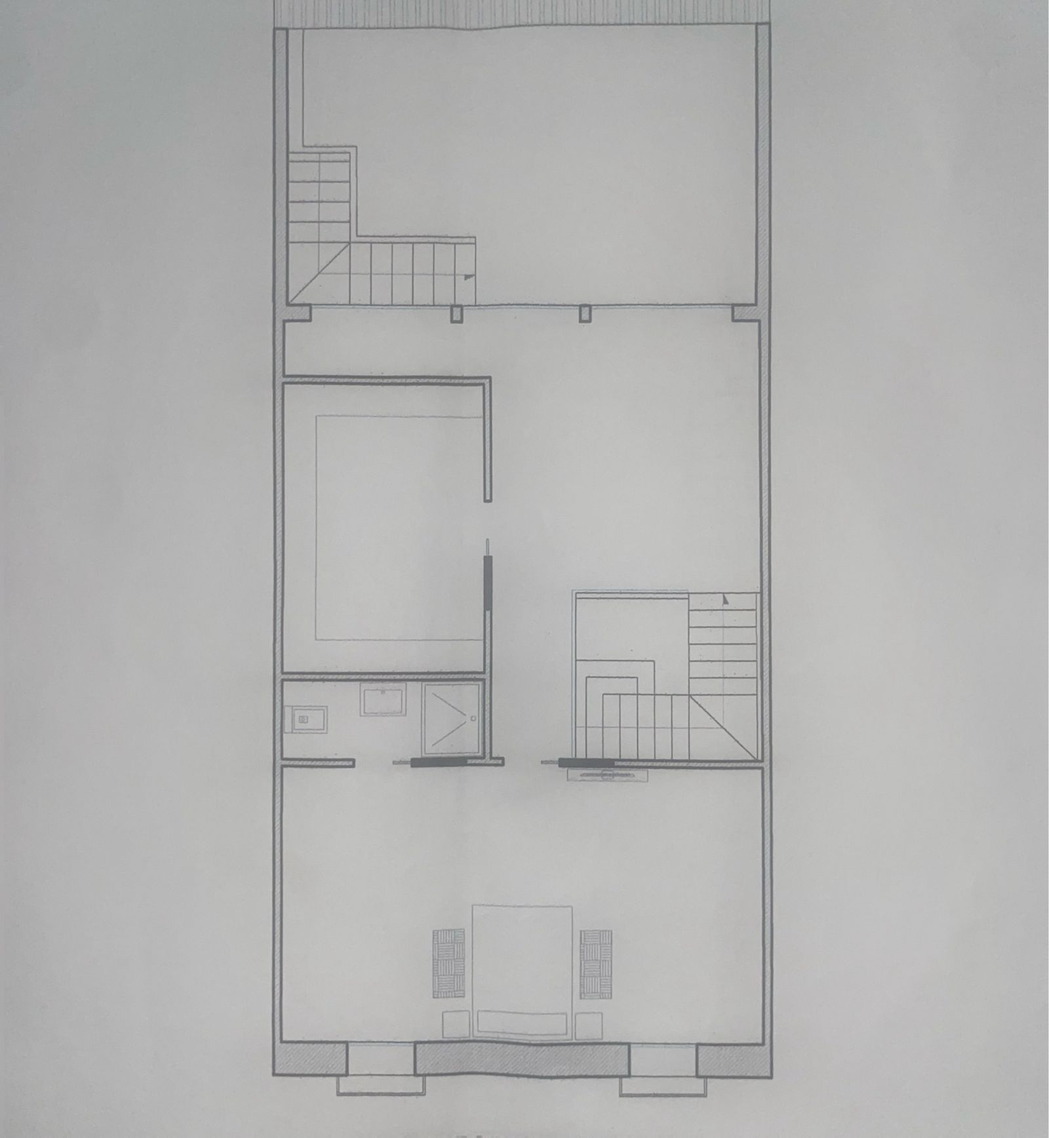
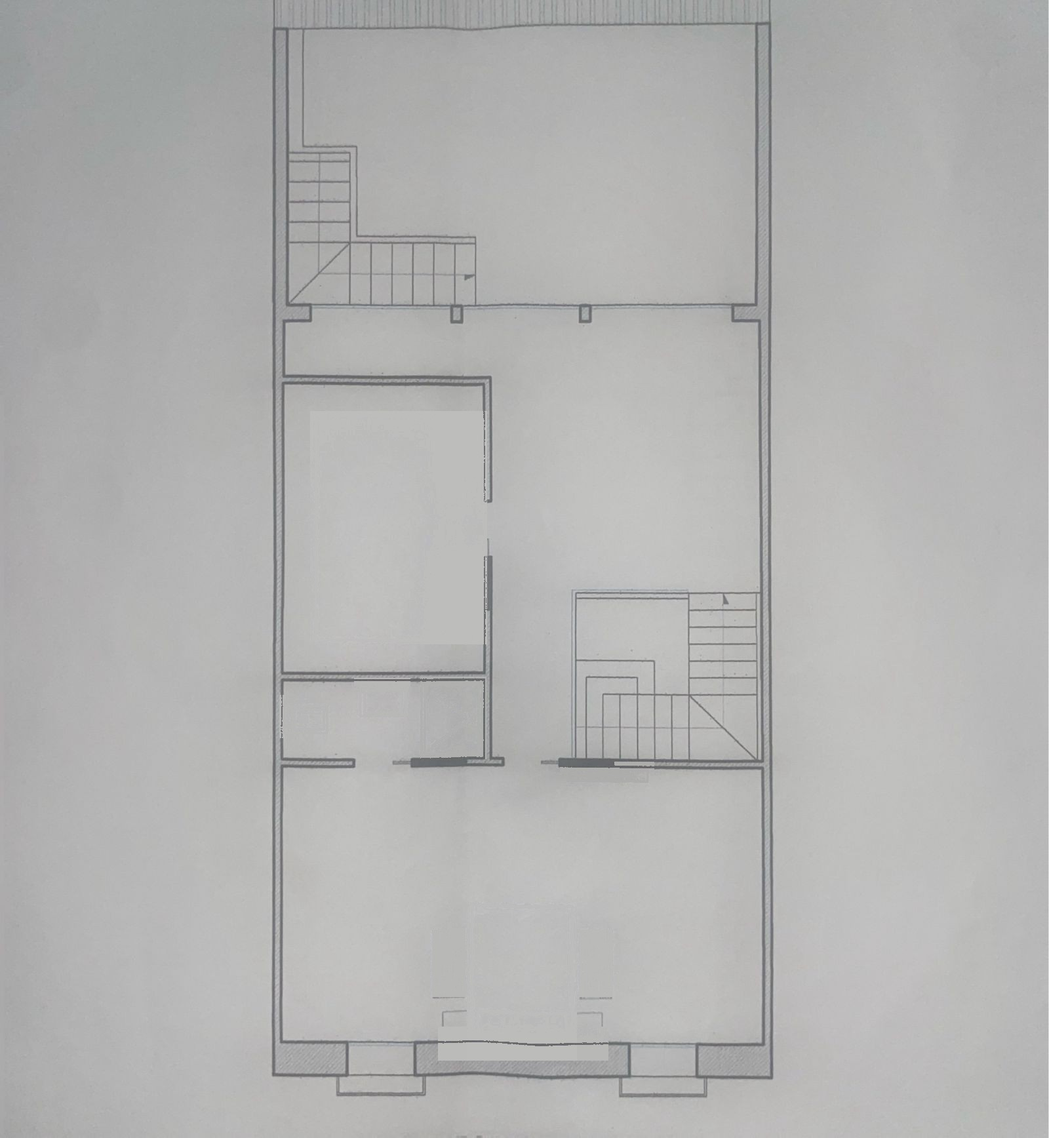
V2.83 — Planos: modo Mobiliario con todos los muebles reconstruidos; menús ajustados

diff --git a/planos/index.html b/planos/index.html
@@ -19,7 +19,7 @@ button{background:var(--s2);border:1px solid var(--bd);border-radius:10px;min-he
 button.pri{background:var(--ac);color:#111;border-color:var(--ac);font-weight:600}
 button.on{border-color:var(--ac);color:var(--ac);background:rgba(255,184,28,.12)}
 input,select,textarea{background:var(--s2);border:1px solid var(--bd);border-radius:10px;padding:8px 10px;min-height:40px;width:100%;-webkit-user-select:text;user-select:text}
-.top{flex:0 0 auto;display:flex;align-items:center;gap:8px;padding:8px 10px;background:var(--s1);border-bottom:1px solid var(--bd)}
+.top{flex:0 0 auto;display:flex;align-items:center;gap:8px;padding:20px 10px 8px;background:var(--s1);border-bottom:1px solid var(--bd)}
 .top .tit{flex:1;min-width:0;text-align:left;background:transparent;border:0;font-weight:700;font-size:1.05rem;white-space:nowrap;overflow:hidden;text-overflow:ellipsis;padding:0 4px}.top a{color:var(--ac);text-decoration:none;font-weight:600;white-space:nowrap}
 #nombre{flex:1;min-width:60px;background:transparent;border:0;font-weight:600;font-size:1.02rem;padding:4px}
 .top button{min-height:36px;padding:0 10px}
@@ -29,7 +29,7 @@ input,select,textarea{background:var(--s2);border:1px solid var(--bd);border-rad
 .chip i{width:14px;height:14px;border-radius:50%;display:inline-block;box-shadow:0 0 0 1px rgba(0,0,0,.35)}
 .lienzo{flex:1 1 auto;min-height:0;position:relative;background:#2a2e38;touch-action:none;overflow:hidden}
 #svg{width:100%;height:100%;display:block;touch-action:none}
-.herr{flex:0 0 auto;display:flex;gap:2px;overflow-x:auto;padding:6px 6px calc(6px + env(safe-area-inset-bottom));background:var(--s1);border-top:1px solid var(--bd);scrollbar-width:none}
+.herr{flex:0 0 auto;display:flex;gap:2px;overflow-x:auto;padding:6px 6px calc(18px + env(safe-area-inset-bottom));background:var(--s1);border-top:1px solid var(--bd);scrollbar-width:none}
 .herr::-webkit-scrollbar{display:none}
 .herr button{flex:0 0 auto;display:flex;flex-direction:column;align-items:center;justify-content:center;gap:2px;min-width:62px;min-height:54px;padding:4px 6px;background:transparent;border-color:transparent;font-size:.68rem;color:var(--mut)}
 .herr button svg{width:24px;height:24px}
@@ -120,7 +120,7 @@ const IC={mueble:'<svg viewBox="0 0 24 24" fill="none" stroke="currentColor" str
  texto:'<svg viewBox="0 0 24 24" fill="none" stroke="currentColor" stroke-width="2.2"><path d="M5 5h14M12 5v15"/></svg>',
  borrar:'<svg viewBox="0 0 24 24" fill="none" stroke="currentColor" stroke-width="2"><path d="M4 7h16M9 7V4h6v3M6 7l1 13h10l1-13"/></svg>'};
 IC.subida='<svg viewBox="0 0 24 24" fill="none" stroke="currentColor" stroke-width="2"><circle cx="12" cy="12" r="9"/><path d="M12 17V7M8 11l4-4 4 4"/></svg>';
-const HERR=[['mover','Mover'],['cable','Cable'],['caja','Caja'],['luz','Bombilla'],['int','Interruptor'],['ench','Enchufe'],['vent','Ventilador'],['cuadro','Cuadro'],['tv','TV / Red'],['subida','Subida'],['texto','Texto'],['mueble','Mueble'],['muro','Muro'],['borrar','Borrar']];
+const HERR=[['mover','Mover'],['cable','Cable'],['caja','Caja'],['luz','Bombilla'],['int','Interruptor'],['ench','Enchufe'],['vent','Ventilador'],['cuadro','Cuadro'],['tv','TV / Red'],['subida','Subida'],['texto','Texto'],['mueble','Mobiliario'],['muro','Muro'],['borrar','Borrar']];
 let CORR=false, VSEL=null; let MODO='mover', CIRC=P.circ[0]&&P.circ[0].id, SEL=null, DIB=null, ORTO=true, FIL=null;
 try{ ORTO=localStorage.getItem('dgp-planos-orto')!=='0'; }catch(e){}
 
@@ -144,11 +144,6 @@ function simb(el){ const t=el.t, k='#111';
    case 'ench': { const n=Math.max(1,Math.min(5,el.n||1)), w=22; let g=''; for(let q=0;q<n;q++){ const x0=(q-(n-1)/2)*w; g+='<path d="M'+(x0-9)+' -3a9 9 0 0 0 18 0M'+x0+' 6v12M'+(x0-11)+' -3h22" stroke="'+k+'" stroke-width="2.4" fill="none"/>'; } return g; }
    case 'vent': return '<circle r="22" fill="#fff" stroke="'+k+'" stroke-width="2.2"/><g fill="none" stroke="'+k+'" stroke-width="2"><path d="M0 0c0-11 9-14 11-9S5 0 0 0z"/><path d="M0 0c9 6 7 15 2 15S-3 6 0 0z"/><path d="M0 0c-9 5-18 1-16-4S-4-3 0 0z"/></g><circle r="2.5" fill="'+k+'"/>';
    case 'cuadro': return '<rect x="-20" y="-26" width="40" height="52" rx="3" fill="#fff" stroke="'+k+'" stroke-width="2.4"/><path d="M-12-14h24M-12-4h24M-12 6h24M-12 16h14" stroke="'+k+'" stroke-width="2"/>';
-   case 'mueble': { const d=MUE[el.m||'cama2'], w=d[1], h=d[2], st='fill="#ffffff" fill-opacity=".3" stroke="#4b5563" stroke-width="1.6"'; let g='<rect x="'+(-w/2)+'" y="'+(-h/2)+'" width="'+w+'" height="'+h+'" rx="3" '+st+'/>';
-     if(/^cama/.test(el.m||'cama2')){ const n=(el.m||'cama2')==='cama2'?2:1, pw=(w-12)/n; for(let q=0;q<n;q++) g+='<rect x="'+(-w/2+5+q*(pw+2))+'" y="'+(-h/2+5)+'" width="'+(pw-2)+'" height="22" rx="4" '+st+'/>'; g+='<path d="M'+(-w/2)+' '+(-h/2+34)+'h'+w+'" stroke="#6b7280" stroke-width="1.2"/>'; }
-     else if(el.m==='sofa') g+='<rect x="'+(-w/2+4)+'" y="'+(-h/2+4)+'" width="'+(w-8)+'" height="14" rx="3" '+st+'/>';
-     else if(el.m==='armario') g+='<path d="M0 '+(-h/2)+'v'+h+'" stroke="#6b7280" stroke-width="1.2"/>';
-     return g; }
    case 'tv': return '<rect x="-13" y="-13" width="26" height="26" rx="2" fill="#fff" stroke="#e11ea8" stroke-width="3"/><rect x="-7" y="-7" width="14" height="14" fill="none" stroke="'+k+'" stroke-width="1.6"/><path d="M-4-1h8M-4 3h8" stroke="'+k+'" stroke-width="1.4"/>';
    case 'caja': { const L=cajaLin(el), b=caja2(el), w=b.w, h=b.h;
      return '<rect x="'+(-w/2)+'" y="'+(-h/2)+'" width="'+w+'" height="'+h+'" rx="3" fill="#3b3f47" stroke="#26292f" stroke-width="2"/>'+L.map((l,i)=>'<text x="0" y="'+(-h/2+21+i*20)+'" text-anchor="middle" font-size="14" font-weight="700" fill="'+l.col+'" font-family="Inter,Arial,sans-serif">'+esc(l.t)+'</text>').join(''); }
@@ -157,10 +152,31 @@ function simb(el){ const t=el.t, k='#111';
   } return ''; }
 function cajaLin(el){ const M={}; P.cab.forEach(c=>{ if(c.a===el.id||c.b===el.id) M[c.c]=(M[c.c]||0)+1; });
   return P.circ.filter(c=>M[c.id]).map(c=>({t:c.nom+' - '+M[c.id],col:c.col})); }
-const MUE={cama2:['Cama doble',106,141],cama1:['Cama individual',62,141],sofa:['Sofá',130,55],mesa:['Mesa',95,55],armario:['Armario',75,36],mesita:['Mesita',26,26]};
-function caja2(el){ if(el.t==='mueble'){ const d=MUE[el.m||'cama2']; return {w:d[1],h:d[2]}; } if(el.t!=='caja') return null; const L=cajaLin(el); return {w:Math.max(70,...L.map(l=>l.t.length*8+20)),h:Math.max(40,L.length*20+14)}; }
+const MUE={cama2:['Cama doble',135,225],cama1:['Cama individual',95,200],sofa:['Sofá',200,90],sofaL:['Sofá en L',260,350],sillon:['Sillón',90,90],mesa:['Mesa',110,150],comedor:['Mesa con sillas',280,160],escritorio:['Escritorio',170,140],silla:['Silla',45,45],mesita:['Mesita',50,50],armario:['Armario',220,85],tvm:['Mueble TV',52,170],encimera:['Encimera',72,600],placa:['Placa',62,70],fregadero:['Fregadero',55,100],lavavajillas:['Lavavajillas / horno',62,72],lavadora:['Lavadora',77,75],secadora:['Secadora',77,72],frigo:['Frigorífico',75,75],inodoro:['Inodoro',66,50],lavabo:['Lavabo',80,50],ducha:['Ducha / bañera',100,200],radiador:['Radiador',128,24],otro:['Otro',100,100]};
+function mueDim(el){ const d=MUE[el.m]||MUE.otro; return [el.w||d[1], el.h||d[2]]; }
+function mueSVG(el){ const [w,h]=mueDim(el), x0=-w/2, y0=-h/2, st=' fill="#ffffff" fill-opacity=".55" stroke="#374151" stroke-width="2"', R=(x,y,a,b,r)=>'<rect x="'+x+'" y="'+y+'" width="'+a+'" height="'+b+'" rx="'+(r||2)+'"'+st+'/>', C=(x,y,r)=>'<circle cx="'+x+'" cy="'+y+'" r="'+r+'"'+st+'/>', L=(d)=>'<path d="'+d+'" stroke="#374151" stroke-width="2" fill="none"/>';
+  const m=el.m; let g='';
+  if(m==='sofaL'){ const t=Math.min(w,h)*0.32; g='<path d="M'+(w/2-t)+' '+y0+'H'+(w/2)+'V'+(h/2)+'H'+x0+'V'+(h/2-t)+'H'+(w/2-t)+'Z"'+st+'/>'+L('M'+(w/2-t*0.3)+' '+y0+'V'+(h/2-t*0.3)+'H'+x0); return g; }
+  if(m==='comedor'){ const iw=w-50, ih=h-50; g=R(-iw/2,-ih/2,iw,ih); const lon=w>=h, nL=Math.max(1,Math.round((lon?iw:ih)/78)); for(let q=0;q<nL;q++){ const f=(q+.5)/nL; if(lon){ const cx=-iw/2+f*iw; g+=R(cx-22,y0,44,22,4)+R(cx-22,h/2-22,44,22,4); } else { const cy=-ih/2+f*ih; g+=R(x0,cy-22,22,44,4)+R(w/2-22,cy-22,22,44,4); } }
+    if(lon){ g+=R(x0,-22,22,44,4)+R(w/2-22,-22,22,44,4); } else { g+=R(-22,y0,44,22,4)+R(-22,h/2-22,44,22,4); } return g; }
+  g=R(x0,y0,w,h,m==='inodoro'||m==='lavabo'?8:3);
+  if(m==='cama2'||m==='cama1'){ const n=m==='cama2'?2:1, pw=(w-14)/n; for(let q=0;q<n;q++) g+=R(x0+5+q*(pw+4),y0+6,pw-2,Math.min(30,h*.14),5); g+=L('M'+x0+' '+(y0+h*.24)+'h'+w); }
+  else if(m==='sofa'||m==='sillon'){ g+=L('M'+x0+' '+(y0+h*.25)+'h'+w); if(m==='sillon') g+=L('M'+(x0+w*.18)+' '+(y0+h*.25)+'V'+(h/2)+'M'+(w/2-w*.18)+' '+(y0+h*.25)+'V'+(h/2)); }
+  else if(m==='armario') g+=L('M0 '+y0+'v'+h);
+  else if(m==='tvm') g+=R(-3,y0+h*.12,6,h*.76,1);
+  else if(m==='placa'){ const r=Math.min(w,h)*.17; [[-1,-1],[1,-1],[-1,1],[1,1]].forEach(([a,b])=>g+=C(a*w*.22,b*h*.22,r)); }
+  else if(m==='fregadero'){ g+=R(x0+6,y0+6,w-12,h/2-9,6)+R(x0+6,3,w-12,h/2-9,6); }
+  else if(['lavavajillas','lavadora','secadora'].includes(m)) g+=C(0,0,Math.min(w,h)*.33);
+  else if(m==='frigo') g+=L('M'+x0+' '+(y0+h*.15)+'h'+w);
+  else if(m==='inodoro') g+=R(x0+4,y0+4,w-8,h*.3,3)+'<ellipse cx="0" cy="'+(h*.12)+'" rx="'+(w*.3)+'" ry="'+(h*.3)+'"'+st+'/>';
+  else if(m==='lavabo') g+='<ellipse cx="0" cy="0" rx="'+(w*.35)+'" ry="'+(h*.3)+'"'+st+'/>';
+  else if(m==='ducha') g+=L('M'+x0+' '+y0+'L0 '+(h*.35)+'L'+(w/2)+' '+y0)+C(0,h*.38,4);
+  else if(m==='radiador'){ for(let q=1;q<8;q++) g+=L('M'+(x0+q*w/8)+' '+y0+'v'+h); }
+  else if(m==='escritorio') g+=L('M'+x0+' '+(y0+h*.6)+'h'+w);
+  return g; }
+function caja2(el){ if(el.t!=='caja') return null; const L=cajaLin(el); return {w:Math.max(70,...L.map(l=>l.t.length*8+20)),h:Math.max(40,L.length*20+14)}; }
 function radio(el){ if(!el) return 0; const b=caja2(el); if(b) return Math.max(b.w,b.h)*1.3/2*0+ (b.h*1.3/2+6); return el.t==='vent'?42:el.t==='cuadro'?48:26; }
-function semi(el){ const k=(el.t==='caja'||el.t==='texto'?1.3:1.7)*(el.sc||1), b=caja2(el); if(b) return [(b.w/2)*k,(b.h/2)*k]; const r=(el.t==='vent'?22:el.t==='cuadro'?26:14)*k; return [r,r]; }
+function semi(el){ if(el.t==='mueble'){ const [w,h]=mueDim(el), k=el.sc||1, rr=((el.r||0)%180+180)%180; return rr>45&&rr<135?[h/2*k,w/2*k]:[w/2*k,h/2*k]; } const k=(el.t==='caja'||el.t==='texto'?1.3:1.7)*(el.sc||1), b=caja2(el); if(b) return [(b.w/2)*k,(b.h/2)*k]; const r=(el.t==='vent'?22:el.t==='cuadro'?26:14)*k; return [r,r]; }
 function puerto(el,sd){ const [w,h]=semi(el); return sd==='t'?[el.x,el.y-h]:sd==='b'?[el.x,el.y+h]:sd==='l'?[el.x-w,el.y]:[el.x+w,el.y]; }
 function hueco(el,sd,c){ const L=P.cab.filter(k=>(k.a===el.id&&k.pa===sd)||(k.b===el.id&&k.pb===sd)).sort((x,y)=>P.circ.findIndex(q=>q.id===x.c)-P.circ.findIndex(q=>q.id===y.c)||(x.ret?1:0)-(y.ret?1:0)||(x.id<y.id?-1:1));
   const n=L.length; if(n<2) return 0; const [w,h]=semi(el); const lado=(sd==='t'||sd==='b')?w:h; const sp=Math.min(14,(2*lado*.85)/(n-1)); return (L.indexOf(c)-(n-1)/2)*sp; }
@@ -187,6 +203,9 @@ function pinta(){ P.cab.forEach(sentido); marcadores(); $('nombre').textContent=
   let h='<rect x="0" y="0" width="'+P.w+'" height="'+P.h+'" fill="#fff"/><rect x="0" y="0" width="'+P.w+'" height="'+P.h+'" fill="url(#cuad)"/>';
   if(P.fondo) h+='<image href="'+P.fondo.src+'" x="0" y="0" width="'+P.fondo.w+'" height="'+P.fondo.h+'" opacity="'+P.fop+'"/>';
   h+=P.muros.map(m=>'<line data-k="m" data-id="'+m.id+'" x1="'+m.x1+'" y1="'+m.y1+'" x2="'+m.x2+'" y2="'+m.y2+'" stroke="'+(SEL&&SEL.id===m.id?'#ffb81c':'#8a8a8a')+'" stroke-width="'+(m.g||18)+'" stroke-linecap="square"/>').join('');
+  const MOB=MODO==='mueble';
+  h+=P.els.filter(el=>el.t==='mueble').map(el=>{ const s=SEL&&SEL.id===el.id, [w,hh]=mueDim(el); return '<g '+(MOB?'data-k="e" data-id="'+el.id+'"':'pointer-events="none"')+' transform="translate('+el.x+' '+el.y+') rotate('+(el.r||0)+') scale('+(el.sc||1)+')" opacity="'+(MOB?1:.8)+'">'+mueSVG(el)+(MOB?'<rect x="'+(-w/2-4)+'" y="'+(-hh/2-4)+'" width="'+(w+8)+'" height="'+(hh+8)+'" rx="6" fill="'+(s?'rgba(255,184,28,.18)':'rgba(255,255,255,.01)')+'" stroke="'+(s?'#ffb81c':'#22c55e')+'" stroke-width="'+(s?3:1.5)+'" stroke-dasharray="'+(s?'0':'6 5')+'"/>':'')+(s?'<rect data-k="rz" data-id="'+el.id+'" x="'+(w/2-6)+'" y="'+(hh/2-6)+'" width="20" height="20" rx="4" fill="#ffb81c" stroke="#fff" stroke-width="2"/>':'')+'</g>'; }).join('');
+  h+='<g'+(MOB?' pointer-events="none" opacity=".45"':'')+'>';
   h+=P.cab.filter(c=>!FIL||c.c===FIL).map(c=>{ const col=colDe(c.c), par=c.ret&&P.cab.some(k=>!k.ret&&((k.a===c.a&&k.b===c.b)||(k.a===c.b&&k.b===c.a))), d=ptsVis(c).map(p=>(par&&!CORR?(p[0]+6)+','+(p[1]+6):p[0]+','+p[1])).join(' '); const s=SEL&&(SEL.id===c.id||(SEL.k==='e'&&(c.a===SEL.id||c.b===SEL.id)));
     return (s?'<polyline points="'+d+'" fill="none" stroke="#ffb81c" stroke-width="12" opacity=".45" stroke-linejoin="round"/>':'')+
      (CORR&&!par?'<polyline points="'+d+'" fill="none" stroke="'+col+'" stroke-opacity=".28" stroke-width="16" stroke-linejoin="round" stroke-linecap="round" pointer-events="none"/><polyline points="'+d+'" fill="none" stroke="'+col+'" stroke-width="1.5" stroke-dasharray="2 4" pointer-events="none" transform="translate(0 -8)"/><polyline points="'+d+'" fill="none" stroke="'+col+'" stroke-width="1.5" stroke-dasharray="2 4" pointer-events="none" transform="translate(0 8)"/>':'')+
@@ -194,8 +213,9 @@ function pinta(){ P.cab.forEach(sentido); marcadores(); $('nombre').textContent=
      '<polyline points="'+d+'" fill="none" stroke="'+col+'" stroke-width="'+(c.g||4)+'" stroke-linejoin="round" stroke-linecap="round"'+(c.ret?' stroke-dasharray="10 7"':'')+' pointer-events="none"'+(c.fl!==false?' marker-end="url(#m'+col.slice(1)+')"':'')+'/>'; }).join('');
   if(DIB&&DIB.pts&&DIB.pts.length){ const col=colDe(DIB.c); h+='<polyline points="'+DIB.pts.map(p=>p[0]+','+p[1]).join(' ')+(DIB.cur?' '+DIB.cur[0]+','+DIB.cur[1]:'')+'" fill="none" stroke="'+col+'" stroke-width="4" stroke-dasharray="'+(DIB.cur?'0':'0')+'" stroke-linejoin="round" pointer-events="none"/>'+DIB.pts.map(p=>'<circle cx="'+p[0]+'" cy="'+p[1]+'" r="5" fill="'+col+'" pointer-events="none"/>').join(''); }
   if(DIB&&DIB.muro){ const m=DIB.muro; h+='<line x1="'+m.x1+'" y1="'+m.y1+'" x2="'+m.x2+'" y2="'+m.y2+'" stroke="#8a8a8a" stroke-width="18" opacity=".7" pointer-events="none"/>'; }
-  h+=P.els.map(el=>{ const s=SEL&&SEL.id===el.id, b=caja2(el); return '<g data-k="e" data-id="'+el.id+'" transform="translate('+el.x+' '+el.y+') rotate('+(el.r||0)+') scale('+(el.t==='caja'||el.t==='texto'?1.3:1.7)*(el.sc||1)+')">'+
+  h+=P.els.filter(el=>el.t!=='mueble').map(el=>{ const s=SEL&&SEL.id===el.id, b=caja2(el); return '<g data-k="e" data-id="'+el.id+'" transform="translate('+el.x+' '+el.y+') rotate('+(el.r||0)+') scale('+(el.t==='caja'||el.t==='texto'?1.3:1.7)*(el.sc||1)+')">'+
      '<rect x="'+(b?-b.w/2-6:-26)+'" y="'+(b?-b.h/2-6:-26)+'" width="'+(b?b.w+12:52)+'" height="'+(b?b.h+12:52)+'" fill="'+(s?'rgba(255,184,28,.25)':'transparent')+'" stroke="'+(s?'#ffb81c':'none')+'" stroke-width="2" rx="6"/>'+simb(el)+(s?'<rect data-k="rz" data-id="'+el.id+'" x="'+((b?b.w/2+6:26)-7)+'" y="'+((b?b.h/2+6:26)-7)+'" width="14" height="14" rx="3" fill="#ffb81c" stroke="#fff" stroke-width="2"/>':'')+'</g>'+(el.lab?'<text x="'+el.x+'" y="'+(el.y+semi(el)[1]+18)+'" text-anchor="middle" font-size="15" font-weight="700" fill="#111" stroke="#fff" stroke-width="4" paint-order="stroke" font-family="Inter,Arial,sans-serif" pointer-events="none">'+esc(el.lab)+'</text>':''); }).join('');
+  h+='</g>';
   if(SEL&&SEL.k==='c'){ const c=P.cab.find(x=>x.id===SEL.id); if(c) [['a',c.a,c.pa],['b',c.b,c.pb]].forEach(([w,id,cur])=>{ const el=id&&P.els.find(x=>x.id===id); if(!el) return; ['t','r','b','l'].forEach(sd=>{ const q=puerto(el,sd), o=sd==='t'?[0,-14]:sd==='b'?[0,14]:sd==='l'?[-14,0]:[14,0];
       h+='<circle data-k="pt" data-id="'+c.id+'" data-w="'+w+'" data-s="'+sd+'" cx="'+(q[0]+o[0])+'" cy="'+(q[1]+o[1])+'" r="10" fill="'+(cur===sd?'#ffb81c':'#ffffff')+'" fill-opacity="'+(cur===sd?1:.15)+'" stroke="#ffb81c" stroke-width="3"/>'; }); }); }
   if(SEL&&SEL.k==='c'){ const c=P.cab.find(x=>x.id===SEL.id); if(c) h+=c.pts.map((p,i)=>((i===0&&c.a)||(i===c.pts.length-1&&c.b))?'':'<circle data-k="v" data-id="'+c.id+'" data-i="'+i+'" cx="'+p[0]+'" cy="'+p[1]+'" r="9" fill="'+(VSEL===i?'#0b5cd6':'#38bdf8')+'" stroke="#ffffff" stroke-width="3"/>').join(''); }
@@ -213,7 +233,8 @@ function pintaHerr(){ $('herr').innerHTML=HERR.map(x=>'<button data-h="'+x[0]+'"
   else if(MODO==='cable') t=DIB&&DIB.pts&&DIB.pts.length?'Toca el aparato de destino (o puntos de paso)':'Toca el aparato o caja de origen';
   else if(MODO==='muro') t='Arrastra para dibujar un muro';
   else if(MODO==='borrar') t='Toca lo que quieras borrar';
-  else if(['caja','luz','int','ench','vent','cuadro','tv','texto','subida','mueble'].includes(MODO)) t='Toca el plano para colocarlo';
+  else if(['caja','luz','int','ench','vent','cuadro','tv','texto','subida'].includes(MODO)) t='Toca el plano para colocarlo';
+  else if(MODO==='mueble'&&!SEL) t='Mobiliario: arrastra para mover, toca para editar';
   av.textContent=t; av.hidden=!t; }
 const AI={abierto:'<svg viewBox="0 0 24 24" fill="none" stroke="currentColor" stroke-width="2"><rect x="5" y="11" width="14" height="10" rx="2"/><path d="M8 11V7a4 4 0 0 1 7.5-2"/></svg>',cerrado:'<svg viewBox="0 0 24 24" fill="none" stroke="currentColor" stroke-width="2"><rect x="5" y="11" width="14" height="10" rx="2"/><path d="M8 11V7a4 4 0 0 1 8 0v4"/></svg>',
  sus:'<svg viewBox="0 0 24 24" fill="none" stroke="currentColor" stroke-width="2"><path d="M4 8h13l-3-3M20 16H7l3 3"/></svg>',texto:'<svg viewBox="0 0 24 24" fill="none" stroke="currentColor" stroke-width="2"><path d="M4 7V5h16v2M12 5v14M9 19h6"/></svg>',
@@ -222,6 +243,7 @@ const AI={abierto:'<svg viewBox="0 0 24 24" fill="none" stroke="currentColor" st
 const bi=(a,ic,t,on)=>'<button data-a="'+a+'" aria-label="'+t+'" title="'+t+'" class="ib'+(on?' on':'')+'"'+(a==='del'?' style="color:var(--neg)"':'')+'>'+ic+'</button>';
 function pintaAccion(){ const a=$('accion'); let h='';
   if(MODO==='cable'&&DIB&&DIB.pts&&DIB.pts.length) h='<button data-a="atras">Quitar último punto</button><button data-a="orto">'+(ORTO?'Recto':'Libre')+'</button><button data-a="cancel">Cancelar</button>';
+  else if(MODO==='mueble'&&!SEL) h='<select id="addMue" style="flex:0 0 auto;width:auto;height:40px;border:1px solid var(--bd);border-radius:10px;background:var(--panel,#1c1f26);color:inherit;font:inherit;font-weight:600;padding:0 10px"><option value="">+ Añadir mueble</option>'+Object.keys(MUE).map(k=>'<option value="'+k+'">'+MUE[k][0]+'</option>').join('')+'</select>';
   else if(SEL){ if(SEL.k==='e'){ const el=P.els.find(x=>x.id===SEL.id); if(!el){ SEL=null; } else h=bi('lock',el.lock?AI.cerrado:AI.abierto,el.lock?'Desbloquear':'Bloquear',el.lock)+(el.t==='texto'?bi('edit',AI.texto,'Editar texto'):'')+(el.t==='mueble'?'<select id="selMue" style="flex:0 0 auto;width:auto;height:40px;border:1px solid var(--bd);border-radius:10px;background:var(--panel,#1c1f26);color:inherit;font:inherit;font-weight:600;padding:0 8px">'+Object.keys(MUE).map(k=>'<option value="'+k+'"'+((el.m||'cama2')===k?' selected':'')+'>'+MUE[k][0]+'</option>').join('')+'</select>':'')+(el.t==='ench'?'<select id="selTomas" style="flex:0 0 auto;width:auto;min-width:0;height:40px;border:1px solid var(--bd);border-radius:10px;background:var(--panel,#1c1f26);color:inherit;font:inherit;font-weight:600;padding:0 8px">'+[1,2,3,4,5].map(n=>'<option value="'+n+'"'+((el.n||1)===n?' selected':'')+'>×'+n+'</option>').join('')+'</select>':'')+(el.t!=='texto'?bi('sus',AI.sus,'Sustituir'):'')+(el.t!=='texto'&&el.t!=='caja'?bi('lab',AI.texto,'Nombre'):'')+bi('menos','−','Más pequeño')+bi('mas','+','Más grande')+bi('rot',AI.rot,'Girar')+bi('dup',AI.dup,'Duplicar')+bi('del',AI.del,'Borrar'); }
     else if(SEL.k==='c') { const cc=P.cab.find(x=>x.id===SEL.id)||{}; h=bi('lock',cc.lock?AI.cerrado:AI.abierto,cc.lock?'Desbloquear':'Bloquear',cc.lock)+(VSEL!=null?'<button data-a="qv">Quitar punto</button>':'')+'<button data-a="av">Añadir punto</button><button data-a="ret">'+(cc.ret?'Pasar a normal':'Pasar a retorno')+'</button><button data-a="ccol">Cambiar térmico</button><button data-a="flecha">Flecha</button><button data-a="grueso">Grosor</button>'+bi('del',AI.del,'Borrar'); }
     else if(SEL.k==='m') h=''+bi('del',AI.del,'Borrar muro')+''; }
@@ -246,7 +268,7 @@ svg.addEventListener('pointerdown',e=>{ svg.setPointerCapture(e.pointerId); PTR.
   if(h&&h.k==='pt'){ const c0=P.cab.find(x=>x.id===h.id); if(c0&&(h.w==='a'?c0.pa:c0.pb)===h.s){ ARR={tipo:'re',id:h.id,w:h.w,sx:e.clientX,sy:e.clientY}; return; } }
   if(h&&h.k==='pt'){ const c=P.cab.find(x=>x.id===h.id); if(c){ snap(); const k=h.w==='a'?'pa':'pb'; c[k]=h.s; guarda(); pinta(); } return; }
   if(h&&h.k==='rz'&&!(P.els.find(x=>x.id===h.id)||{}).lock){ const el=P.els.find(x=>x.id===h.id); snap(); ARR={tipo:'rz',id:h.id,d0:Math.max(8,Math.hypot(p.x-el.x,p.y-el.y)),s0:el.sc||1}; return; }
-  if(MODO==='mover'){
+  if(MODO==='mover'||MODO==='mueble'){
     if(h&&h.k==='v'&&!(P.cab.find(x=>x.id===h.id)||{}).lock){ snap(); VSEL=h.i; ARR={tipo:'v',id:h.id,i:h.i}; pinta(); return; }
     if(h&&(h.k==='e'||h.k==='c'||h.k==='m')){ if(!SEL||SEL.id!==h.id) VSEL=null; SEL={k:h.k,id:h.id}; const lo=(h.k==='e'?P.els.find(x=>x.id===h.id):h.k==='c'?P.cab.find(x=>x.id===h.id):null); if(lo&&lo.lock){ ARR={tipo:'pan',sx:e.clientX,sy:e.clientY,vx:VX,vy:VY}; pinta(); return; } snap(); ARR={tipo:'obj',k:h.k,id:h.id,x0:p.x,y0:p.y,orig:JSON.stringify(h.k==='e'?P.els.find(x=>x.id===h.id):h.k==='c'?P.cab.find(x=>x.id===h.id):P.muros.find(x=>x.id===h.id))}; pinta(); return; }
     ARR={tipo:'pan',sx:e.clientX,sy:e.clientY,vx:VX,vy:VY,desel:true}; return; }
@@ -284,7 +306,7 @@ function fin(e){ PTR.delete(e.pointerId); if(PINCH){ if(PTR.size<2) PINCH=null; 
       const nq=ortoPt(prev,q);
       if(prev&&Math.hypot(nq[0]-prev[0],nq[1]-prev[1])<8){ terminaCable(); return; }
       DIB.pts.push(nq); DIB.cur=null; pinta(); return; }
-    if(['caja','luz','int','ench','vent','cuadro','tv','texto','subida','mueble'].includes(MODO)){ snap(); const el={id:uid(),t:MODO,x:q[0],y:q[1],r:0}; if(MODO==='mueble') el.m='cama2';
+    if(['caja','luz','int','ench','vent','cuadro','tv','texto','subida'].includes(MODO)){ snap(); const el={id:uid(),t:MODO,x:q[0],y:q[1],r:0};
       
       if(MODO==='texto') el.txt='Texto';
       P.els.push(el); SEL={k:'e',id:el.id}; guarda(); pinta(); if(MODO==='texto') editaTexto(el); return; } } }
@@ -309,7 +331,8 @@ $('circs').onclick=e=>{ const b=e.target.closest('button'); if(!b) return; const
   if(DIB&&DIB.pts){ DIB.c=c; CIRC=c; pinta(); return; }
   if(FIL===c){ abreCirc(P.circ.find(x=>x.id===c)); return; }
   FIL=c; CIRC=c; pinta(); };
-$('accion').onchange=e=>{ if(e.target.id==='selMue'&&SEL){ const el=P.els.find(x=>x.id===SEL.id); if(el){ snap(); el.m=e.target.value; guarda(); pinta(); } return; } if(e.target.id!=='selTomas'||!SEL) return; const el=P.els.find(x=>x.id===SEL.id); if(!el) return; snap(); el.n=+e.target.value; guarda(); pinta(); };
+$('accion').onchange=e=>{ if(e.target.id==='addMue'&&e.target.value){ const r=$('lienzo').getBoundingClientRect(); snap(); const el={id:uid(),t:'mueble',m:e.target.value,x:Math.round((r.width/2-VX)/VS),y:Math.round((r.height/2-VY)/VS),r:0}; P.els.push(el); SEL={k:'e',id:el.id}; guarda(); pinta(); return; }
+  if(e.target.id==='selMue'&&SEL){ const el=P.els.find(x=>x.id===SEL.id); if(el){ snap(); el.m=e.target.value; delete el.w; delete el.h; guarda(); pinta(); } return; } if(e.target.id!=='selTomas'||!SEL) return; const el=P.els.find(x=>x.id===SEL.id); if(!el) return; snap(); el.n=+e.target.value; guarda(); pinta(); };
 $('accion').onclick=e=>{ const b=e.target.closest('button'); if(!b) return; const a=b.dataset.a;
   if(a==='fin') terminaCable(); else if(a==='atras'){ DIB.pts.pop(); if(!DIB.pts.length) DIB=null; pinta(); } else if(a==='cancel'){ DIB=null; pinta(); }
   else if(a==='orto'){ ORTO=!ORTO; try{ localStorage.setItem('dgp-planos-orto',ORTO?'1':'0'); }catch(e){} pinta(); }
@@ -483,15 +506,17 @@ function subidas(){ const B=PL.find(x=>x.id==='pl-baja-v2')||PL.find(x=>x.id==='
   return 1; }
 function migraRet(){ let h7=false; try{ h7=localStorage.getItem('dgp-planos-sub1')==='1'; }catch(e){} if(!h7){ const n7=subidas(); try{ localStorage.setItem('dgp-planos-sub1','1'); }catch(e){} if(n7){ guarda(); pinta(); } } let h6=false; try{ h6=localStorage.getItem('dgp-planos-rl1')==='1'; }catch(e){} if(!h6){ let n6=0; PL.filter(x=>/^pl-(baja|alta)/.test(x.id)).forEach(x=>{ n6+=retALuz(x); }); try{ localStorage.setItem('dgp-planos-rl1','1'); }catch(e){} if(n6){ guarda(); pinta(); } } let h5=false; try{ h5=localStorage.getItem('dgp-planos-lab1')==='1'; }catch(e){} if(!h5){ let n5=0; PL.filter(x=>/^pl-(baja|alta)/.test(x.id)).forEach(x=>{ n5+=pegaTextos(x); }); try{ localStorage.setItem('dgp-planos-lab1','1'); }catch(e){} if(n5){ guarda(); pinta(); } } let h2=false; try{ h2=localStorage.getItem('dgp-planos-enc1')==='1'; }catch(e){} if(!h2){ let n3=0; PL.filter(x=>/^pl-(baja|alta)/.test(x.id)).forEach(x=>{ n3+=encadena(x)+retMismoCamino(x); }); try{ localStorage.setItem('dgp-planos-enc1','1'); }catch(e){} if(n3){ guarda(); pinta(); } } let n2=0; PL.forEach(x=>{ n2+=arreglaCuadro(x); }); if(n2) guarda(); let hecho=false; try{ hecho=localStorage.getItem('dgp-planos-ret1')==='1'; }catch(e){} if(hecho) return; let n=0;
   PL.filter(x=>/^pl-(baja|alta)/.test(x.id)).forEach(x=>{ n+=addRetornos(x); }); try{ localStorage.setItem('dgp-planos-ret1','1'); }catch(e){} if(n){ guarda(); pinta(); } }
-function migraMue(){ let f=false; try{ f=localStorage.getItem('dgp-planos-mue1'); }catch(e){} if(f) return; let n=0;
-  PL.filter(x=>/^pl-baja/.test(x.id)).forEach(x=>{ if(!x.els.some(e=>e.t==='mueble')){ x.els.unshift({id:uid(),t:'mueble',m:'cama2',x:575,y:2316,r:90}); n++; } });
-  try{ localStorage.setItem('dgp-planos-mue1','1'); }catch(e){} if(n){ guarda(); pinta(); } }
+const MUEB={baja:[['sillon',650,325,90,90,45],['tvm',429,503,52,170,0],['mesa',596,548,107,153,0],['sofaL',681,604,267,352,0],['comedor',1064,509,284,162,0],['armario',441,1277,77,75,0],['lavadora',441,1362,77,75,0],['secadora',441,1452,77,75,0],['ducha',456,1622,107,215,0],['lavabo',702,1600,85,50,0],['lavadora',441,1772,77,75,0],['secadora',441,1845,77,70,0],['comedor',1020,1350,160,190,0],['encimera',1226,1362,72,656,0],['placa',1231,1270,62,70,0],['fregadero',1231,1480,53,100,0],['lavavajillas',1231,1652,62,75,0],['radiador',968,1678,127,25,0],['armario',571,1988,227,85,0],['cama2',522,2316,127,225,270],['cama2',1198,2187,127,225,0],['mesita',1113,2110,50,50,0],['armario',964,2422,92,245,0],['escritorio',1176,2472,172,145,0],['silla',1077,2475,25,60,0]],
+ alta:[['otro',608,805,254,340,0],['inodoro',467,1093,66,50,0],['lavabo',583,1066,70,48,0],['ducha',692,1095,85,110,0],['cama2',796,1495,152,230,180],['mesita',699,1592,46,36,0],['mesita',897,1592,46,36,0],['otro',685,1458,54,86,0],['otro',910,1458,54,86,0],['radiador',926,1181,128,22,0]]};
+function migraMue(){ let f=false; try{ f=localStorage.getItem('dgp-planos-mue2'); }catch(e){} if(f) return; let n=0;
+  PL.forEach(x=>{ const k=/^pl-baja/.test(x.id)?'baja':/^pl-alta/.test(x.id)?'alta':null; if(!k) return; x.els=x.els.filter(e=>e.t!=='mueble'); MUEB[k].forEach((a,i)=>x.els.unshift({id:'mu'+k[0]+i,t:'mueble',m:a[0],x:a[1],y:a[2],w:a[3],h:a[4],r:a[5]})); n++; });
+  try{ localStorage.setItem('dgp-planos-mue2','1'); }catch(e){} if(n){ guarda(); pinta(); } }
 pinta(); requestAnimationFrame(ajustar); cargaSrv().then(plantillas).then(migraRet).then(migraMue);
 })();
 </script>
 <script>
 (function(){
-  var BUILD='V2.82', ROOT='../';
+  var BUILD='V2.83', ROOT='../';
   var VJ=new URL(ROOT+'version.json',location.href).href, t0=Date.now(), busy=false;
   function intentos(n){ try{ if(n===undefined) return +(sessionStorage.getItem('dgp_upd')||0); sessionStorage.setItem('dgp_upd',n); }catch(e){ return 0; } }
   async function recargar(){ intentos(intentos()+1); try{ await fetch(location.href.split('#')[0],{cache:'reload'}); }catch(e){} location.reload(); }

diff --git a/juegos/crucigramas/index.html b/juegos/crucigramas/index.html
@@ -96,7 +96,7 @@ summary{cursor:pointer;font-weight:600;padding:8px 0}
   <details id="det"><summary>Todas las pistas</summary><div id="lh"></div><div id="lv"></div></details>
   <h2>Mis crucigramas</h2>
   <div class="lista" id="lista"></div>
-  <p class="pie"><span id="version">V2.82</span></p>
+  <p class="pie"><span id="version">V2.83</span></p>
 </main>
 <script src="https://cdn.jsdelivr.net/npm/@supabase/supabase-js@2.45.0/dist/umd/supabase.min.js"></script>
 <script>
@@ -1030,7 +1030,7 @@ sincronizar();
 <script>
 /* Actualización automática: compara con version.json y recarga si hay versión nueva */
 (function(){
-  var BUILD='V2.82', ROOT='../../';
+  var BUILD='V2.83', ROOT='../../';
   var VJ=new URL(ROOT+'version.json',location.href).href, t0=Date.now(), busy=false;
   function intentos(n){ try{ if(n===undefined) return +(sessionStorage.getItem('dgp_upd')||0); sessionStorage.setItem('dgp_upd',n); }catch(e){ return 0; } }
   async function recargar(){ intentos(intentos()+1); try{ await fetch(location.href.split('#')[0],{cache:'reload'}); }catch(e){} location.reload(); }

diff --git a/media/index.html b/media/index.html
@@ -169,7 +169,7 @@ pre{white-space:pre-wrap;font-size:.75rem;color:var(--mut);max-height:160px;over
     </div>
   </section>
   <div class="m" id="diag" style="margin-top:18px;text-align:center;font-size:.75rem"></div>
-  <div class="m" style="margin-top:4px;text-align:center"><span id="version">V2.82</span></div>
+  <div class="m" style="margin-top:4px;text-align:center"><span id="version">V2.83</span></div>
   <pre id="log" hidden></pre>
 </div>
 
@@ -869,7 +869,7 @@ window.__medios={BD,get bucle(){return bucle;},get ctx(){return ctxA;},get prevE
 <script>
 /* Actualización automática: compara con version.json y recarga si hay versión nueva */
 (function(){
-  var BUILD='V2.82', ROOT='../';
+  var BUILD='V2.83', ROOT='../';
   if(/[?&]embed=1/.test(location.search)) return;
   var VJ=new URL(ROOT+'version.json',location.href).href, t0=Date.now(), busy=false;
   function intentos(n){ try{ if(n===undefined) return +(sessionStorage.getItem('dgp_upd')||0); sessionStorage.setItem('dgp_upd',n); }catch(e){ return 0; } }

diff --git a/index.html b/index.html
@@ -188,7 +188,7 @@ html,body{overscroll-behavior:none}html.sa{min-height:calc(100% + env(safe-area-
   <aside class="side">
     <div class="brand">DGP</div>
     <nav id="nav" aria-label="Secciones"></nav>
-    <div class="foot"><span class="m"><span id="version">V2.82</span></span><button id="out">Salir</button></div>
+    <div class="foot"><span class="m"><span id="version">V2.83</span></span><button id="out">Salir</button></div>
   </aside>
   <div>
   <div class="main">
@@ -952,7 +952,7 @@ iniciar();
 <script>
 /* Actualización automática: compara con version.json y recarga si hay versión nueva */
 (function(){
-  var BUILD='V2.82', ROOT='';
+  var BUILD='V2.83', ROOT='';
   if(/[?&]embed=1/.test(location.search)) return;
   var VJ=new URL(ROOT+'version.json',location.href).href, t0=Date.now(), busy=false;
   function intentos(n){ try{ if(n===undefined) return +(sessionStorage.getItem('dgp_upd')||0); sessionStorage.setItem('dgp_upd',n); }catch(e){ return 0; } }

diff --git a/juegos/index.html b/juegos/index.html
@@ -133,7 +133,7 @@ h2{font-size:.78rem;letter-spacing:.06em;text-transform:uppercase;color:var(--mu
   <h2>Mis partidas</h2>
   <div class="lista" id="lista"></div>
 
-  <p class="pie"><span id="version">V2.82</span></p>
+  <p class="pie"><span id="version">V2.83</span></p>
 </main>
 
 <script src="https://cdn.jsdelivr.net/npm/@supabase/supabase-js@2.45.0/dist/umd/supabase.min.js"></script>
@@ -590,7 +590,7 @@ sincronizar();
 <script>
 /* Actualización automática: compara con version.json y recarga si hay versión nueva */
 (function(){
-  var BUILD='V2.82', ROOT='../';
+  var BUILD='V2.83', ROOT='../';
   if(/[?&]embed=1/.test(location.search)) return;
   var VJ=new URL(ROOT+'version.json',location.href).href, t0=Date.now(), busy=false;
   function intentos(n){ try{ if(n===undefined) return +(sessionStorage.getItem('dgp_upd')||0); sessionStorage.setItem('dgp_upd',n); }catch(e){ return 0; } }

diff --git a/cocina/index.html b/cocina/index.html
@@ -579,7 +579,7 @@ document.addEventListener('visibilitychange',()=>{ if(!document.hidden&&$('sheet
 <script>
 /* Actualización automática */
 (function(){
-  var BUILD='V2.82', ROOT='../';
+  var BUILD='V2.83', ROOT='../';
   var VJ=new URL(ROOT+'version.json',location.href).href, t0=Date.now(), busy=false;
   function intentos(n){ try{ if(n===undefined) return +(sessionStorage.getItem('dgp_upd')||0); sessionStorage.setItem('dgp_upd',n); }catch(e){ return 0; } }
   async function recargar(){ intentos(intentos()+1); try{ await fetch(location.href.split('#')[0],{cache:'reload'}); }catch(e){} location.reload(); }

diff --git a/pizzeria/index.html b/pizzeria/index.html
@@ -214,7 +214,7 @@ document.addEventListener('visibilitychange',()=>{ if(!document.hidden) carga();
 <script>
 /* Actualización automática */
 (function(){
-  var BUILD='V2.82', ROOT='../';
+  var BUILD='V2.83', ROOT='../';
   var VJ=new URL(ROOT+'version.json',location.href).href, t0=Date.now(), busy=false;
   function intentos(n){ try{ if(n===undefined) return +(sessionStorage.getItem('dgp_upd')||0); sessionStorage.setItem('dgp_upd',n); }catch(e){ return 0; } }
   async function recargar(){ intentos(intentos()+1); try{ await fetch(location.href.split('#')[0],{cache:'reload'}); }catch(e){} location.reload(); }

diff --git a/proporciones/index.html b/proporciones/index.html
@@ -161,7 +161,7 @@ idbGet().then(b=>{ if(b) ponerImg(b); });
 <script>
 /* Actualización automática */
 (function(){
-  var BUILD='V2.82', ROOT='../';
+  var BUILD='V2.83', ROOT='../';
   var VJ=new URL(ROOT+'version.json',location.href).href, t0=Date.now(), busy=false;
   function intentos(n){ try{ if(n===undefined) return +(sessionStorage.getItem('dgp_upd')||0); sessionStorage.setItem('dgp_upd',n); }catch(e){ return 0; } }
   async function recargar(){ intentos(intentos()+1); try{ await fetch(location.href.split('#')[0],{cache:'reload'}); }catch(e){} location.reload(); }

diff --git a/musica/index.html b/musica/index.html
@@ -5635,7 +5635,7 @@ document.getElementById("importFile").addEventListener("change", (e)=>{
 <script>
 /* Actualización automática: compara con version.json y recarga si hay versión nueva */
 (function(){
-  var BUILD='V2.82', ROOT='../';
+  var BUILD='V2.83', ROOT='../';
   if(/[?&]embed=1/.test(location.search)) return;
   var VJ=new URL(ROOT+'version.json',location.href).href, t0=Date.now(), busy=false;
   function intentos(n){ try{ if(n===undefined) return +(sessionStorage.getItem('dgp_upd')||0); sessionStorage.setItem('dgp_upd',n); }catch(e){ return 0; } }
